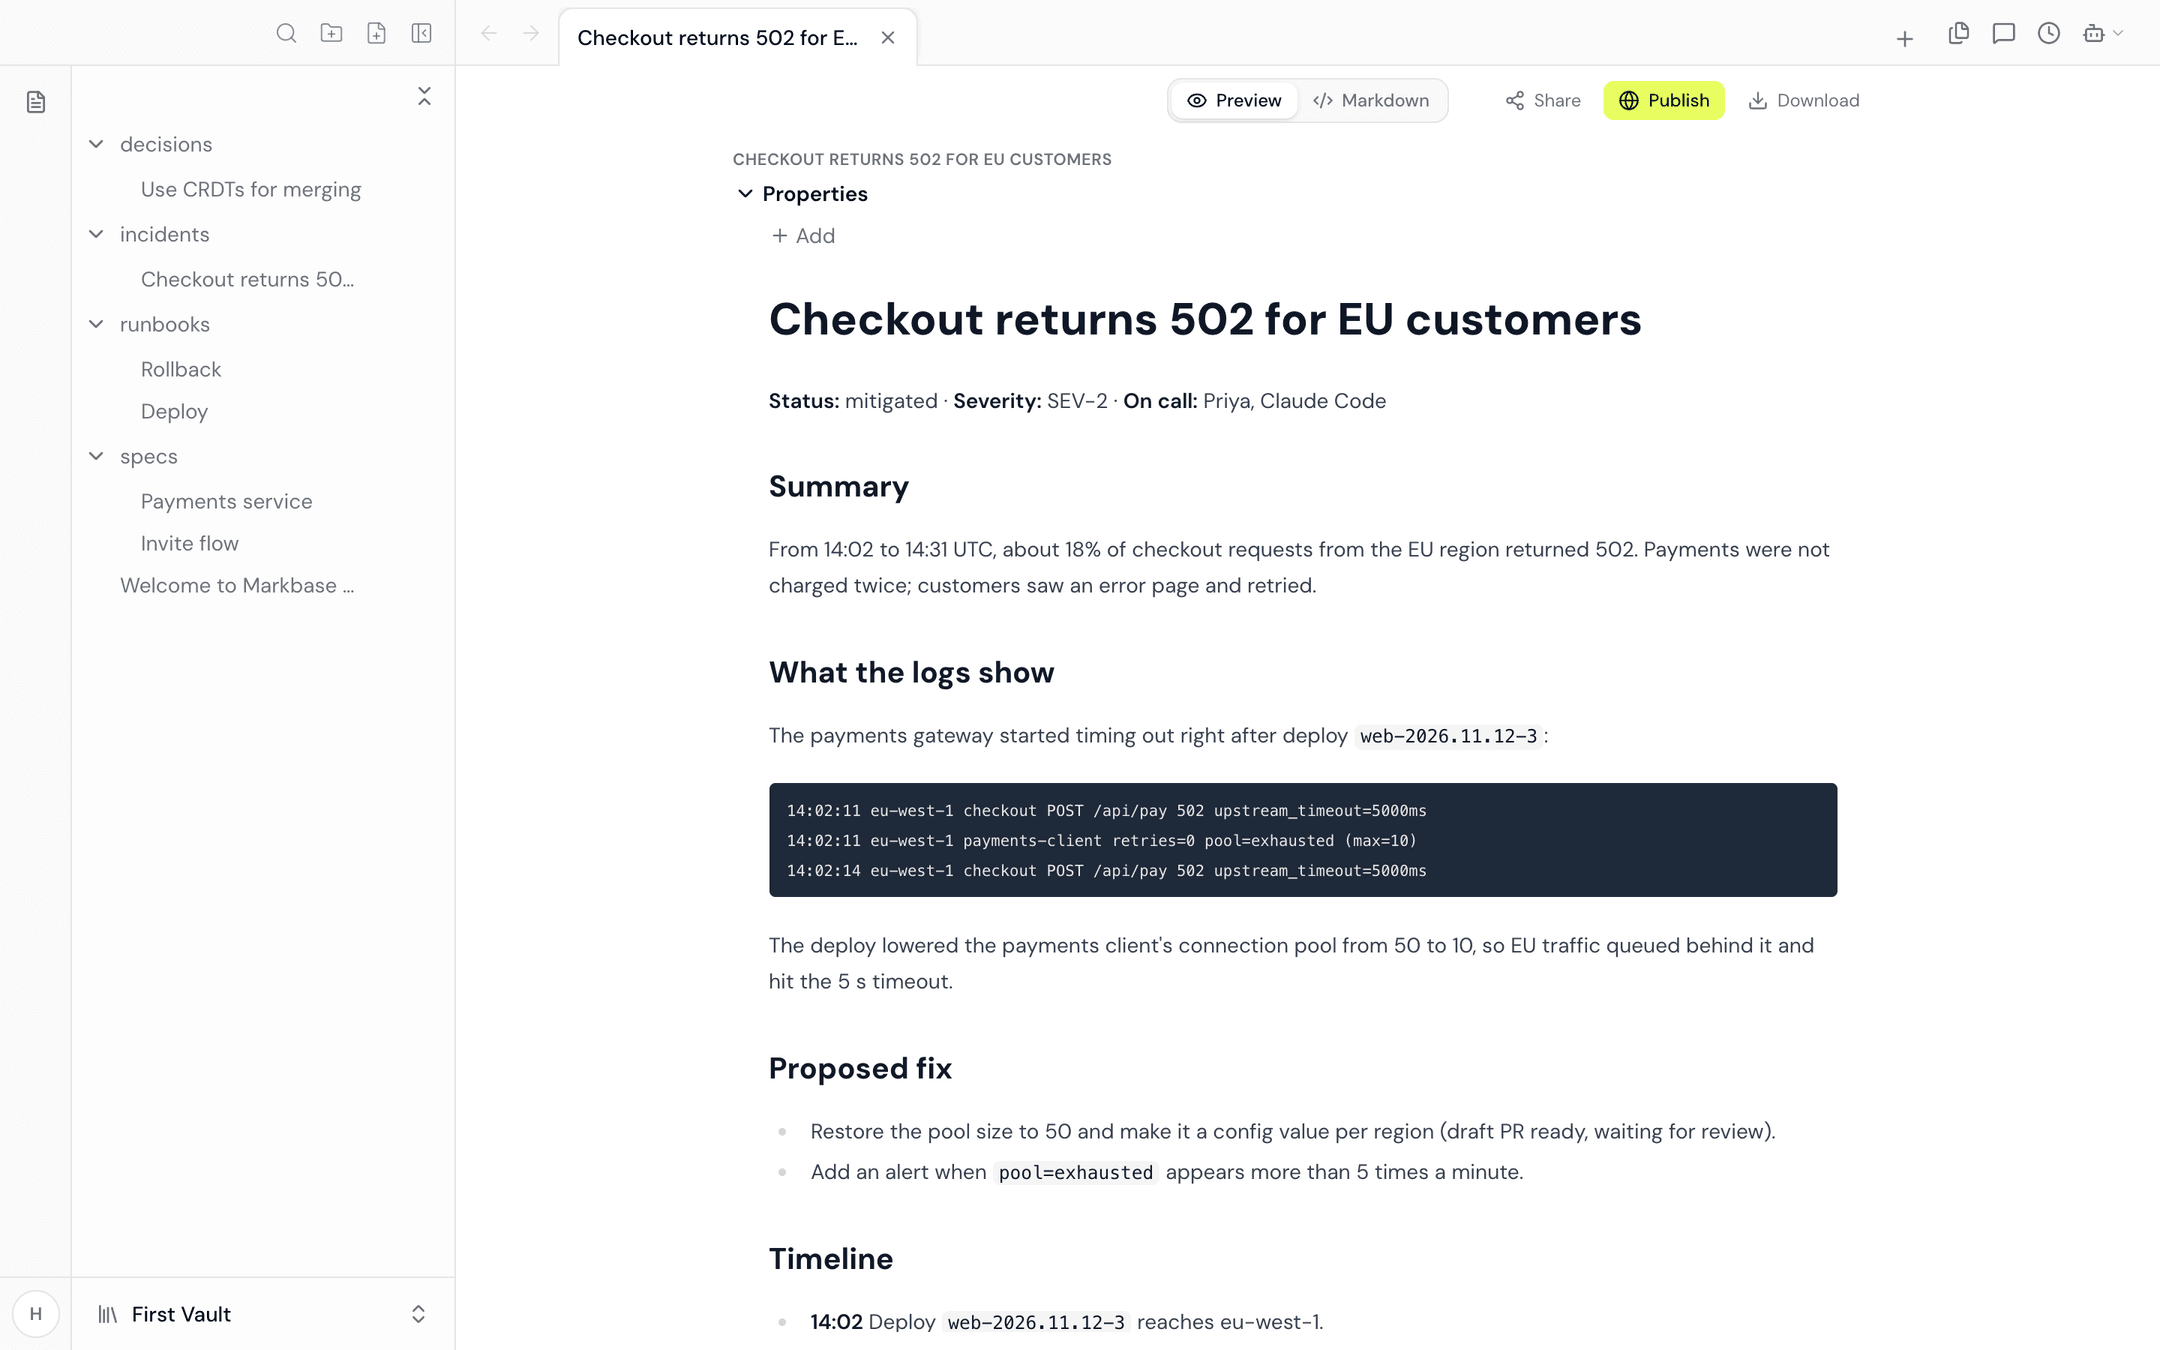
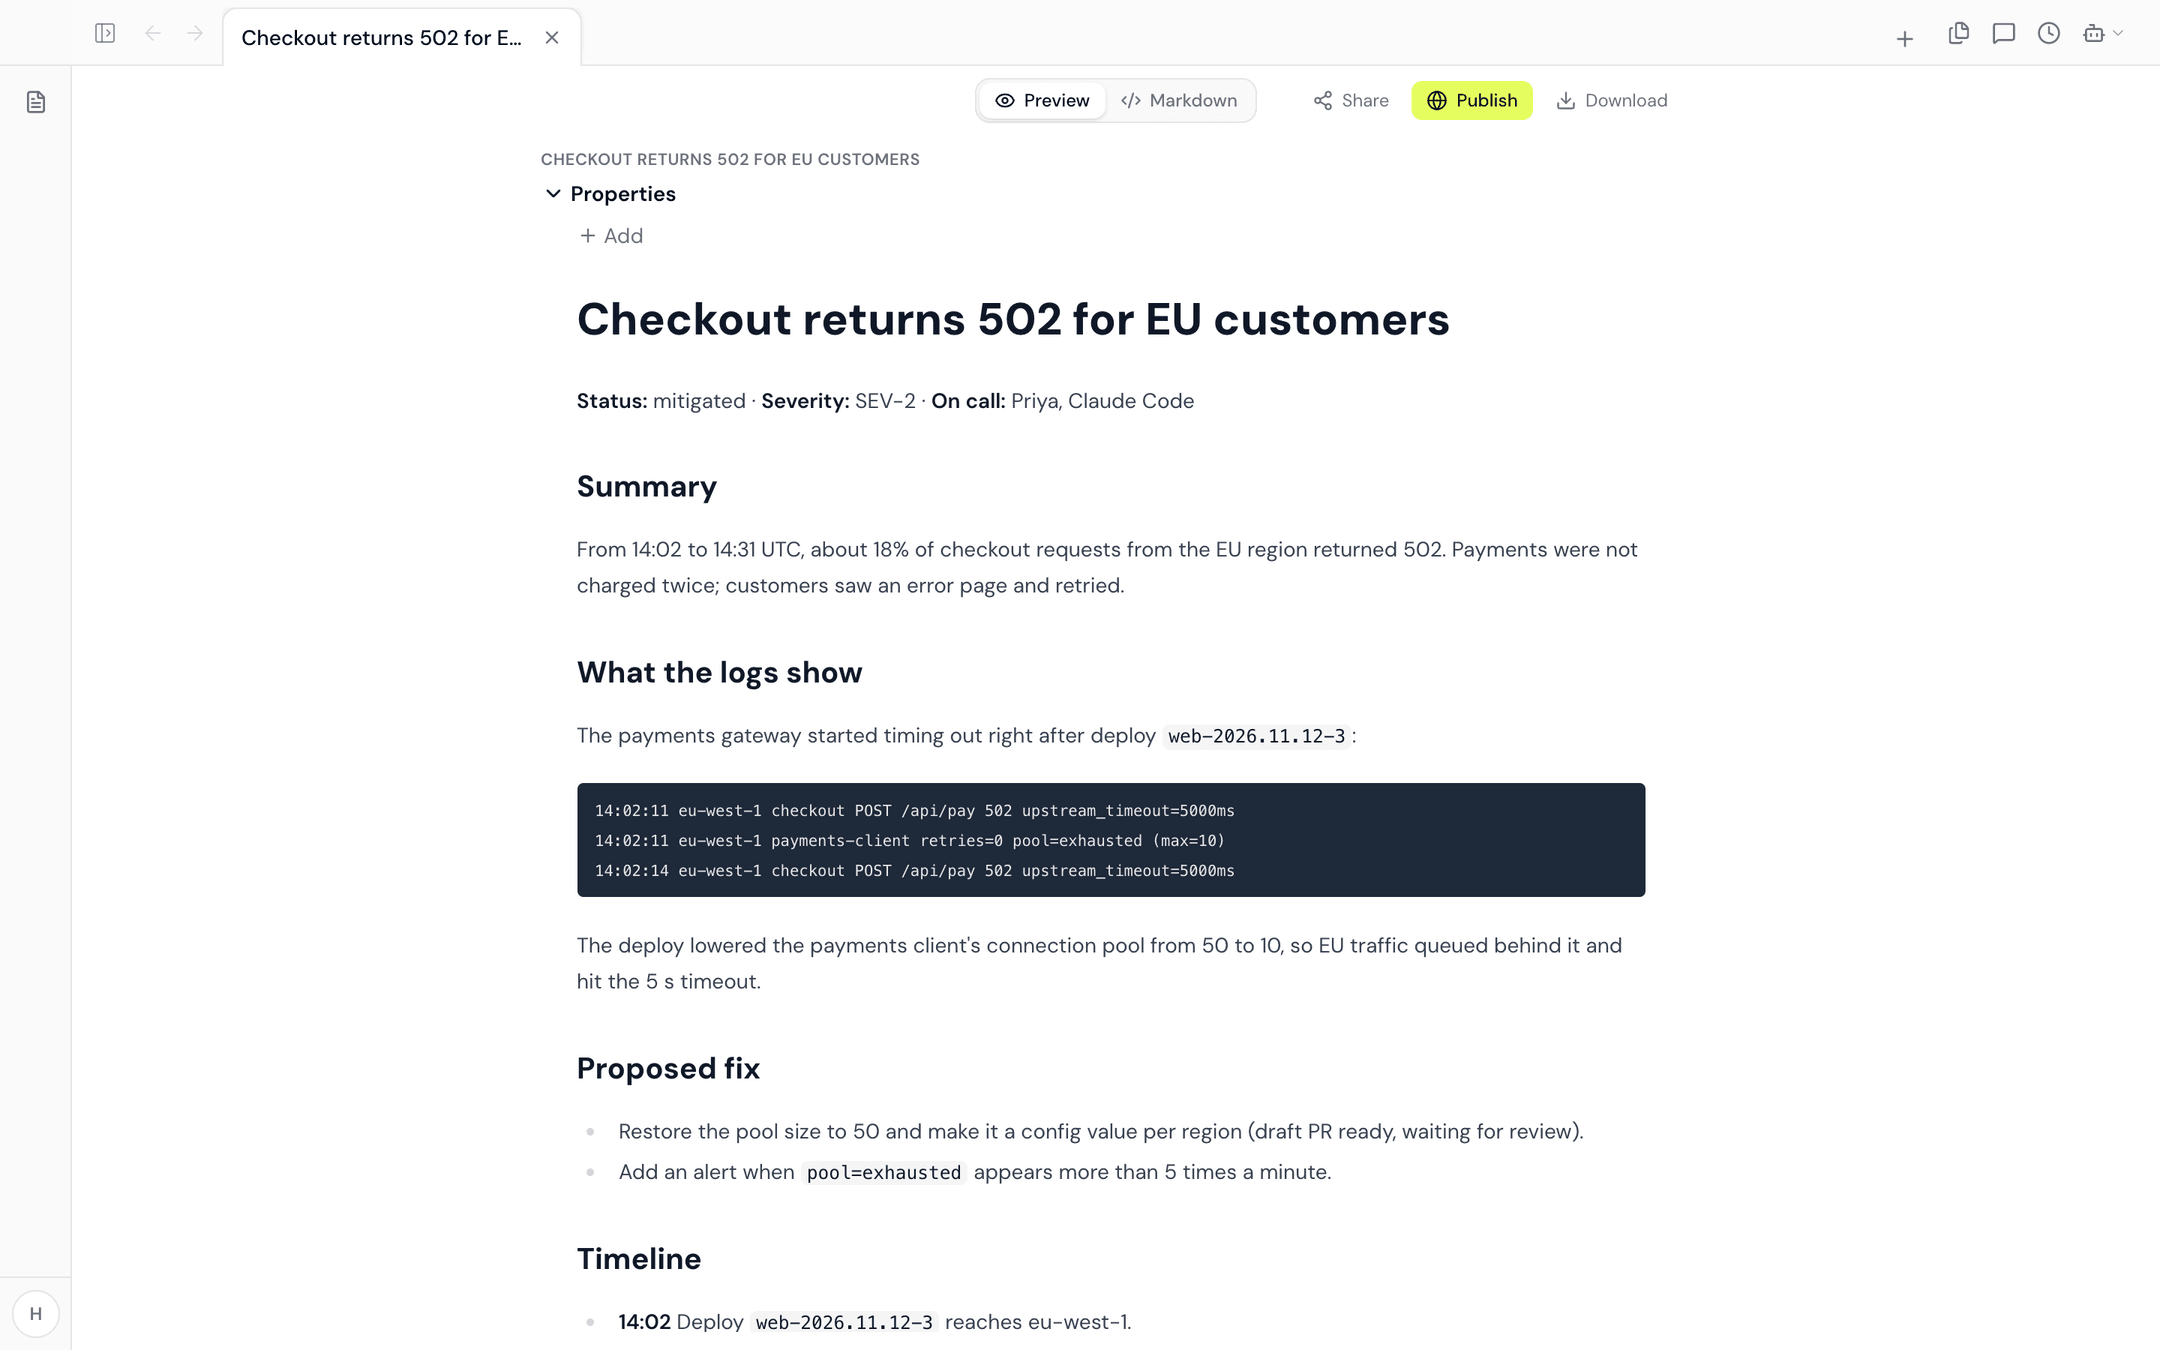
The README screenshot shows the document without the folder tree

diff --git a/README.md b/README.md
@@ -7,7 +7,7 @@
 <p align="center"><strong>One markdown folder for your team and its agents.</strong></p>
 
 <p align="center">
-  <img src="docs/assets/screenshot.png" alt="Markbase: a vault's folders in the sidebar and an incident document open in the editor" width="900">
+  <img src="docs/assets/screenshot.png" alt="Markbase: an on-call incident document open in the editor" width="900">
 </p>
 
 Markbase is a folder of markdown that syncs. You and your team edit the files
